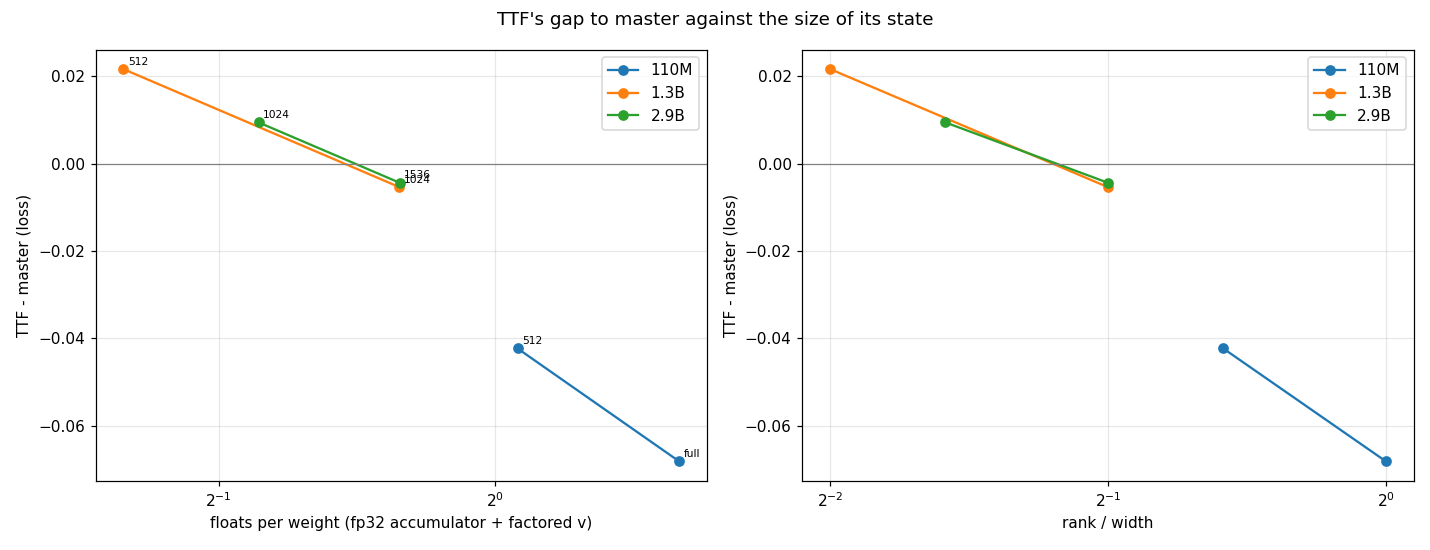
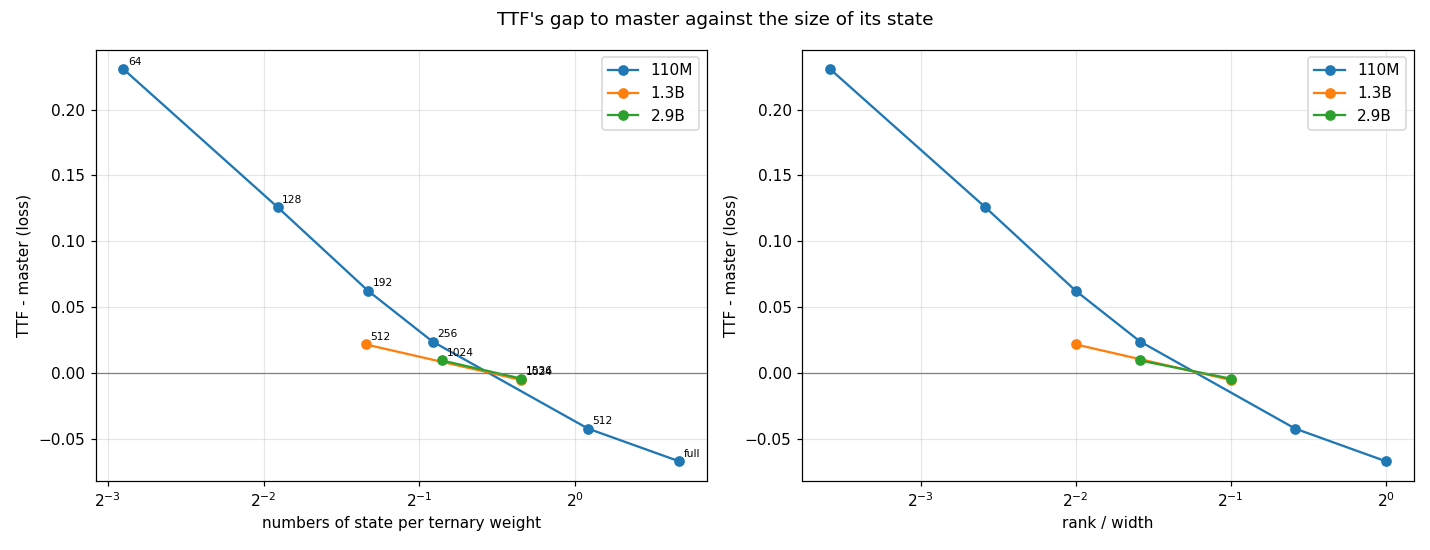
Rank curve: 110M sweep 64-full; break-even ~0.7 numbers per weight at all sizes, 110M steeper

diff --git a/scripts/analysis/rank_curve.py b/scripts/analysis/rank_curve.py
@@ -43,7 +43,7 @@ def fit(xs, ys):
 
 fig, axs = plt.subplots(1, 2, figsize=(13, 5))
 for s in SHAPES:
-    P = [p for p in pts if p[0] == s]
+    P = sorted((p for p in pts if p[0] == s), key=lambda p: p[2])
     if not P:
         continue
     x = [p[2] for p in P]; y = [p[4] for p in P]; q = [p[3] for p in P]
@@ -55,7 +55,7 @@ for s in SHAPES:
         a2, b2, be2, rms2 = fit(q, y)
         print(f"{s:5s}: gap = {a:+.4f} {b:+.4f} log2(floats/weight); per doubling {b:+.4f}; break-even "
               f"{be:.2f} floats/weight (rms {rms:.4f}) | vs rank/width: per doubling {b2:+.4f}, break-even {be2:.2f}")
-for k, (i, lab) in enumerate(((2, "floats per weight (fp32 accumulator + factored v)"), (3, "rank / width"))):
+for k, (i, lab) in enumerate(((2, "numbers of state per ternary weight"), (3, "rank / width"))):
     xs = [p[i] for p in pts if p[0] != "110M"]; ys = [p[4] for p in pts if p[0] != "110M"]
     if len(xs) >= 2:
         a, b, be, rms = fit(xs, ys)
